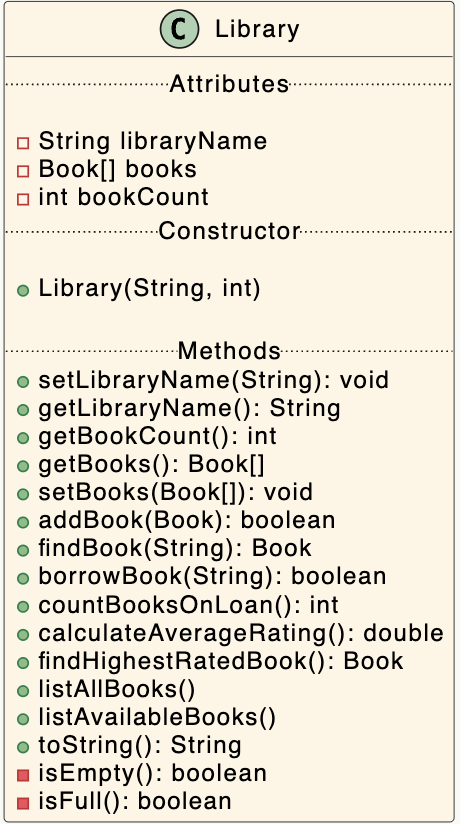
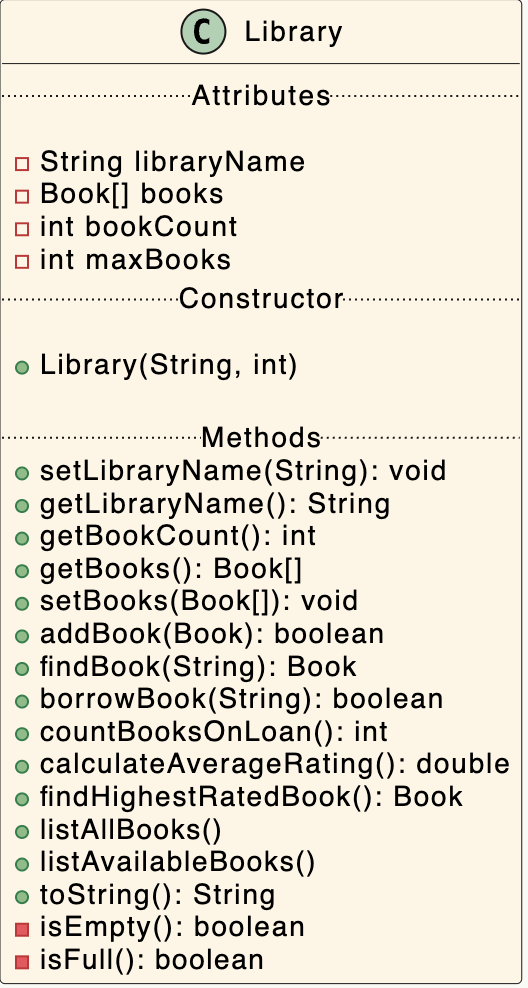
more typos

Changed region(s): [[0.0, 0.0, 1.0, 1.0], [0.913, 0.4248, 0.9435, 0.4551]]

diff --git a/topic-00-assessment/unit-2/book-prog-ass/03.Book.md b/topic-00-assessment/unit-2/book-prog-ass/03.Book.md
@@ -23,7 +23,7 @@ There are four private fields in the Book class:
 
 - *onLoan*: A boolean value, set to false if the book is not currently on Loan, true otherwise. It should be initialised to false.
 
-- *rating*: An integer between 0 and 5. It should be initialised to 0. When updating (setter) *rating*, you should only update if the value is between 0 and 5.
+- *rating*: A double value between 0 and 5. It should be initialised to 0. When updating (setter) *rating*, you should only update if the value is between 0 and 5.
 
 ---
 

diff --git a/topic-00-assessment/unit-2/book-prog-ass/archives/Library.md b/topic-00-assessment/unit-2/book-prog-ass/archives/Library.md
@@ -14,6 +14,7 @@ class Library {
   - String libraryName
   - Book[] books
   - int bookCount
+  - int maxBooks
   .. Constructor ..
 
   + Library(String, int)
